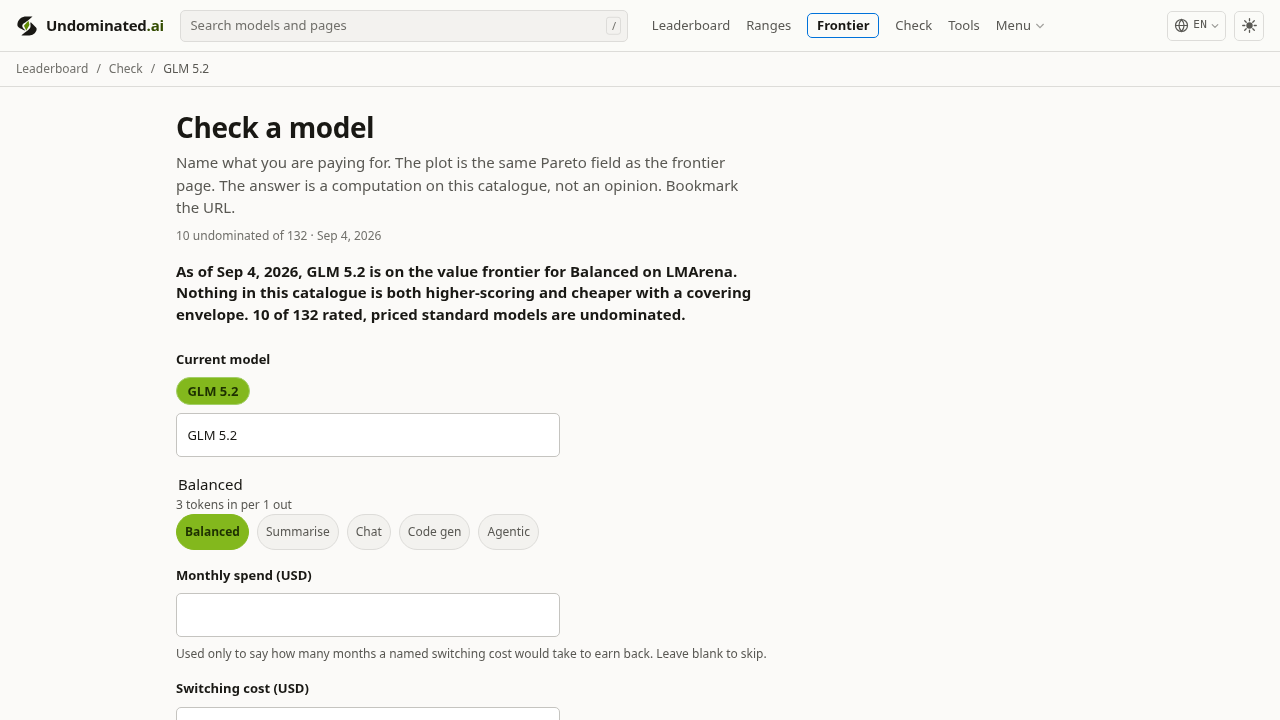
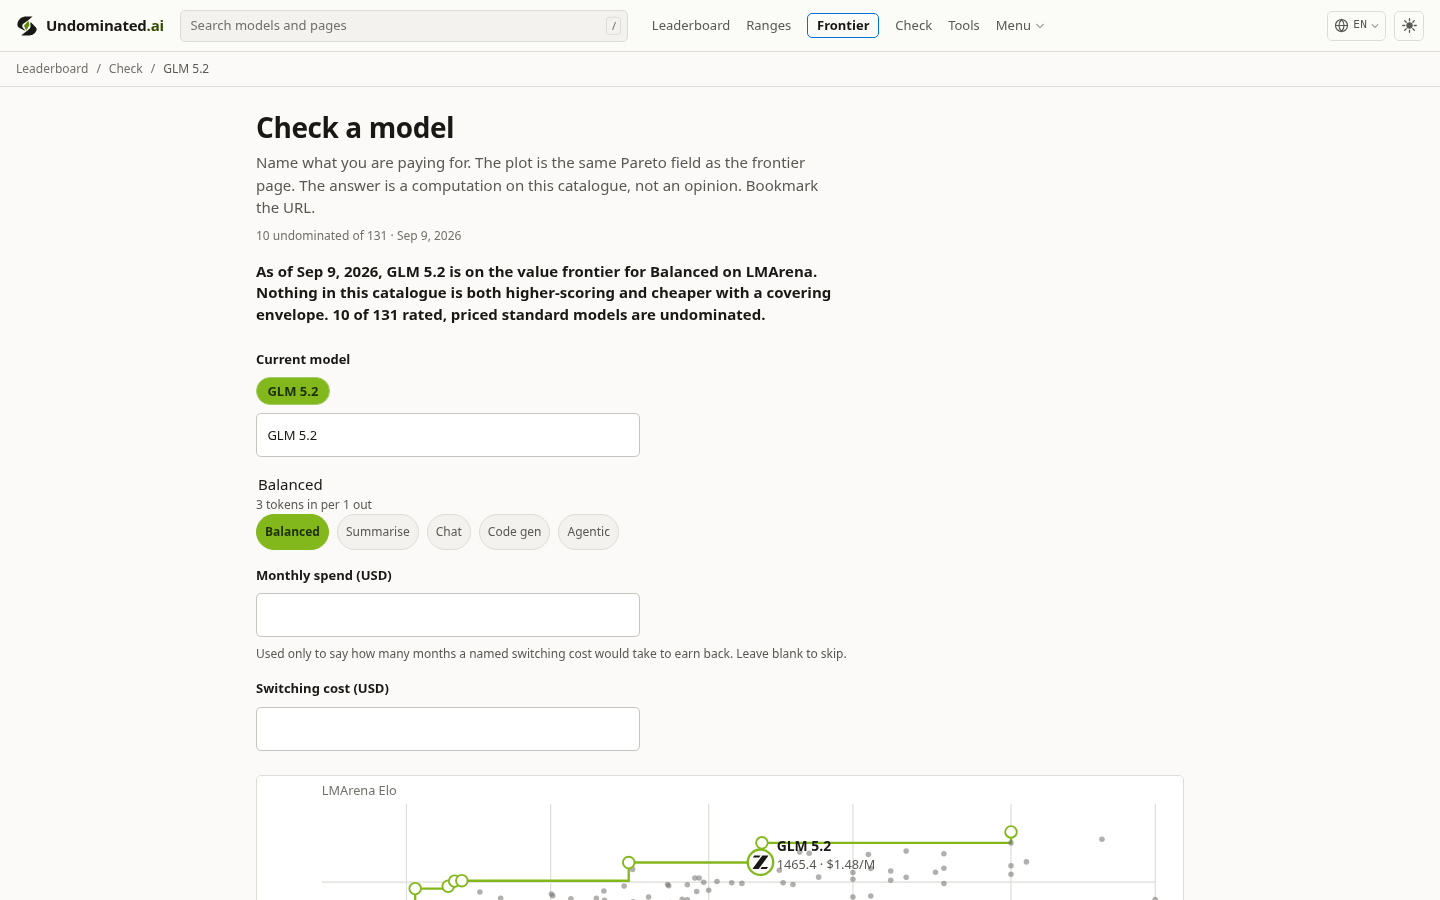
docs: refresh every generated figure against 2026-09-09, and link the maintainer
THE REPO HAD DRIFTED with the site. The catalogue moved 405 -> 416 models and the
frontier 11 -> 10 while this repository still described the board of five days ago.

  README figures   9 figures in 11 places, regenerated: 285 unrated (was 282),
                   60 tiered (was 56), and the rest
  hero.svg         131 rated+priced rows, 10 on the frontier, as of 2026-09-09
  floor table      4 capability floors across 11 snapshots (was 9)
  screenshots      all seven reshot against the current board

A STALE NUMBER THE CHECKER COULD NOT SEE. The route table read "See the 11 nothing
beats on both axes" against a live frontier of 10. It sat outside the
`<!--fig:-->` markers, so `refresh-readme.mjs --check` passed over it — the same
class of failure as the alt text that claimed "63% unrated" against a live 68%.
It is now inside a marker: 9 figures in 11 places rather than 10, and it cannot
rot again without failing CI.

THE THREE NEW HUBS ARE LISTED. /images/, /video/ and /embeddings/ shipped on
2026-09-08 and rank image, video and embedding models on the same
quality-before-price rule as the text board. They now appear in the route table.

No screenshot of them, deliberately: 13 of 91 image models carry a traceable
price, so the page is mostly UNPRICED verdicts. That is the site behaving
correctly — a price with no source is not published — but a shot of it would
advertise thin data rather than the instrument. The table entry is the honest
[…]

diff --git a/README.md b/README.md
@@ -94,10 +94,10 @@ Most AI “value” tables invent a score, then sort by it.
 
 Undominated.ai does the opposite. It ranks on **independently measured capability first**. Price breaks ties. A model that is both worse and dearer is named as such. A model that has not been measured is **unrated**, never zero.
 
-> **<!--fig:dominatedOfRated-->122 of 132<!--/fig-->** rated, priced models are beaten on quality *and* undercut on price by something else on the board.<br>
+> **<!--fig:dominatedOfRated-->121 of 131<!--/fig-->** rated, priced models are beaten on quality *and* undercut on price by something else on the board.<br>
 > **<!--fig:frontier-->10<!--/fig-->** are not. That set is the value frontier.
 
-Every figure on this page is generated from the live catalogue by `scripts/refresh-readme.mjs`, last on **<!--fig:asOf-->2026-09-04<!--/fig-->** (<!--fig:models-->414<!--/fig--> models, <!--fig:providers-->49<!--/fig--> providers). It is checked in CI, because a README that states a number by hand states a wrong one within the week. **[The live board is still the source](https://undominated.ai/).**
+Every figure on this page is generated from the live catalogue by `scripts/refresh-readme.mjs`, last on **<!--fig:asOf-->2026-09-09<!--/fig-->** (<!--fig:models-->416<!--/fig--> models, <!--fig:providers-->48<!--/fig--> providers). It is checked in CI, because a README that states a number by hand states a wrong one within the week. **[The live board is still the source](https://undominated.ai/).**
 
 <p align="center">
   <a href="https://undominated.ai/"><strong>Open the index →</strong></a>
@@ -161,10 +161,10 @@ Undominated.ai publishes the uncomfortable version:
 | Claim the market likes | What this index actually does |
 | --- | --- |
 | A blended “value” rank | Capability first, effective price second. Never mixed into one score. |
-| Unrated at the bottom | Unrated is not zero. **<!--fig:unratedPct-->68%<!--/fig-->** of the catalogue (<!--fig:unrated-->282<!--/fig--> of <!--fig:models-->414<!--/fig-->) has no independent quality score. Those rows are listed by price and excluded from quality order. |
+| Unrated at the bottom | Unrated is not zero. **<!--fig:unratedPct-->69%<!--/fig-->** of the catalogue (<!--fig:unrated-->285<!--/fig--> of <!--fig:models-->416<!--/fig-->) has no independent quality score. Those rows are listed by price and excluded from quality order. |
 | Integer ranks as fact | Significance ranks. Models the benchmark cannot separate **share a rank** — roughly half the ranked board collapses into shared positions once the published confidence intervals are drawn. [The live board states the exact split](https://undominated.ai/); it moves whenever a score does, so it is not repeated here. |
 | “Cheaper is better” | Cheaper is cheaper. A strict upgrade is a capability *superset* that also costs less: same context, same modalities, same tools. |
-| Headline $/M | **<!--fig:tiered-->56<!--/fig-->** models change rate past a context threshold. The board reprices the row when your prompt crosses it. |
+| Headline $/M | **<!--fig:tiered-->60<!--/fig-->** models change rate past a context threshold. The board reprices the row when your prompt crosses it. |
 | Affiliate “best” lists | **No cut of inference. No affiliate. No paid placement. No gateway.** |
 
 The method, the hedges, and the licensing limits: [undominated.ai/methodology](https://undominated.ai/methodology/).
@@ -184,7 +184,7 @@ Every route answers a decision, not a document type.
 | You want to | Open |
 | --- | --- |
 | See what is actually worth buying | [Leaderboard](https://undominated.ai/) |
-| See the 11 nothing beats on both axes | [Frontier](https://undominated.ai/frontier/) |
+| See the <!--fig:frontier-->10<!--/fig--> nothing beats on both axes | [Frontier](https://undominated.ai/frontier/) |
 | Test the model you already use | [Check](https://undominated.ai/check/) |
 | Cite a dated stamp | [Now](https://undominated.ai/now/) |
 | Cite the licence-gated dump | [Hugging Face dataset](https://huggingface.co/datasets/LPH98/undominated-ai-model-pricing) · [GitHub Release](https://github.com/Lenvanderhof/Undominated.ai/releases/tag/catalogue-2026-08-31) · [`CITATION.cff`](CITATION.cff) |
@@ -194,6 +194,7 @@ Every route answers a decision, not a document type.
 | See context-tier step functions | [Cliffs](https://undominated.ai/cliffs/) |
 | See which adjacent ranks the benchmark cannot separate | [Significance](https://undominated.ai/significance/) |
 | Browse every publishable model | [All models](https://undominated.ai/models/) |
+| Rank image, video or embedding models the same way | [Images](https://undominated.ai/images/) · [Video](https://undominated.ai/video/) · [Embeddings](https://undominated.ai/embeddings/) |
 | Ask whether you can self-host | [Self-host](https://undominated.ai/self-host/) |
 | Scan agentic coding tools | [Tools](https://undominated.ai/tools/) |
 | Run a usage export through dominance (client-side; no upload) | [Audit](https://undominated.ai/audit/) |
@@ -288,14 +289,14 @@ Everyone publishes today's prices. Nobody publishes what the **cheapest model cl
 
 <!--floors-->
 
-| Capability floor (LMArena) | 2026-08-24 | 2026-09-04 | Move | Cheapest today |
+| Capability floor (LMArena) | 2026-08-24 | 2026-09-09 | Move | Cheapest today |
 |:---|---:|---:|---:|:---|
 | **≥ 1200** | $0.0525 | $0.0525 | unchanged | `upstage/solar-pro4` |
 | **≥ 1350** | $0.0525 | $0.0525 | unchanged | `upstage/solar-pro4` |
-| **≥ 1400** | $0.0611 | $0.1097 | +80% | `deepseek/deepseek-v4-flash` |
+| **≥ 1400** | $0.0611 | $0.1069 | +75% | `deepseek/deepseek-v4-flash` |
 | **≥ 1450** | $0.4961 | $0.5437 | +10% | `xiaomi/mimo-v2.5-pro` |
 
-<sub>Effective $/M on the balanced workload, from 9 dated snapshots. Generated by `scripts/build-floor-table.mjs`. The floors are append-only — a threshold is never edited in place, because a moved goalpost turns a series into marketing.</sub>
+<sub>Effective $/M on the balanced workload, from 11 dated snapshots. Generated by `scripts/build-floor-table.mjs`. The floors are append-only — a threshold is never edited in place, because a moved goalpost turns a series into marketing.</sub>
 
 <!--/floors-->
 
@@ -348,5 +349,5 @@ Vendor prices are facts the vendor published. Every live row is supposed to carr
   <br>
   <strong><a href="https://undominated.ai/">undominated.ai</a></strong>
   <br>
-  <sub>Best first. Then price. · Len van der Hof · 2026</sub>
+  <sub>Best first. Then price. · Built and maintained by <a href="https://lenvanderhof.com">Len van der Hof</a> · 2026</sub>
 </p>
